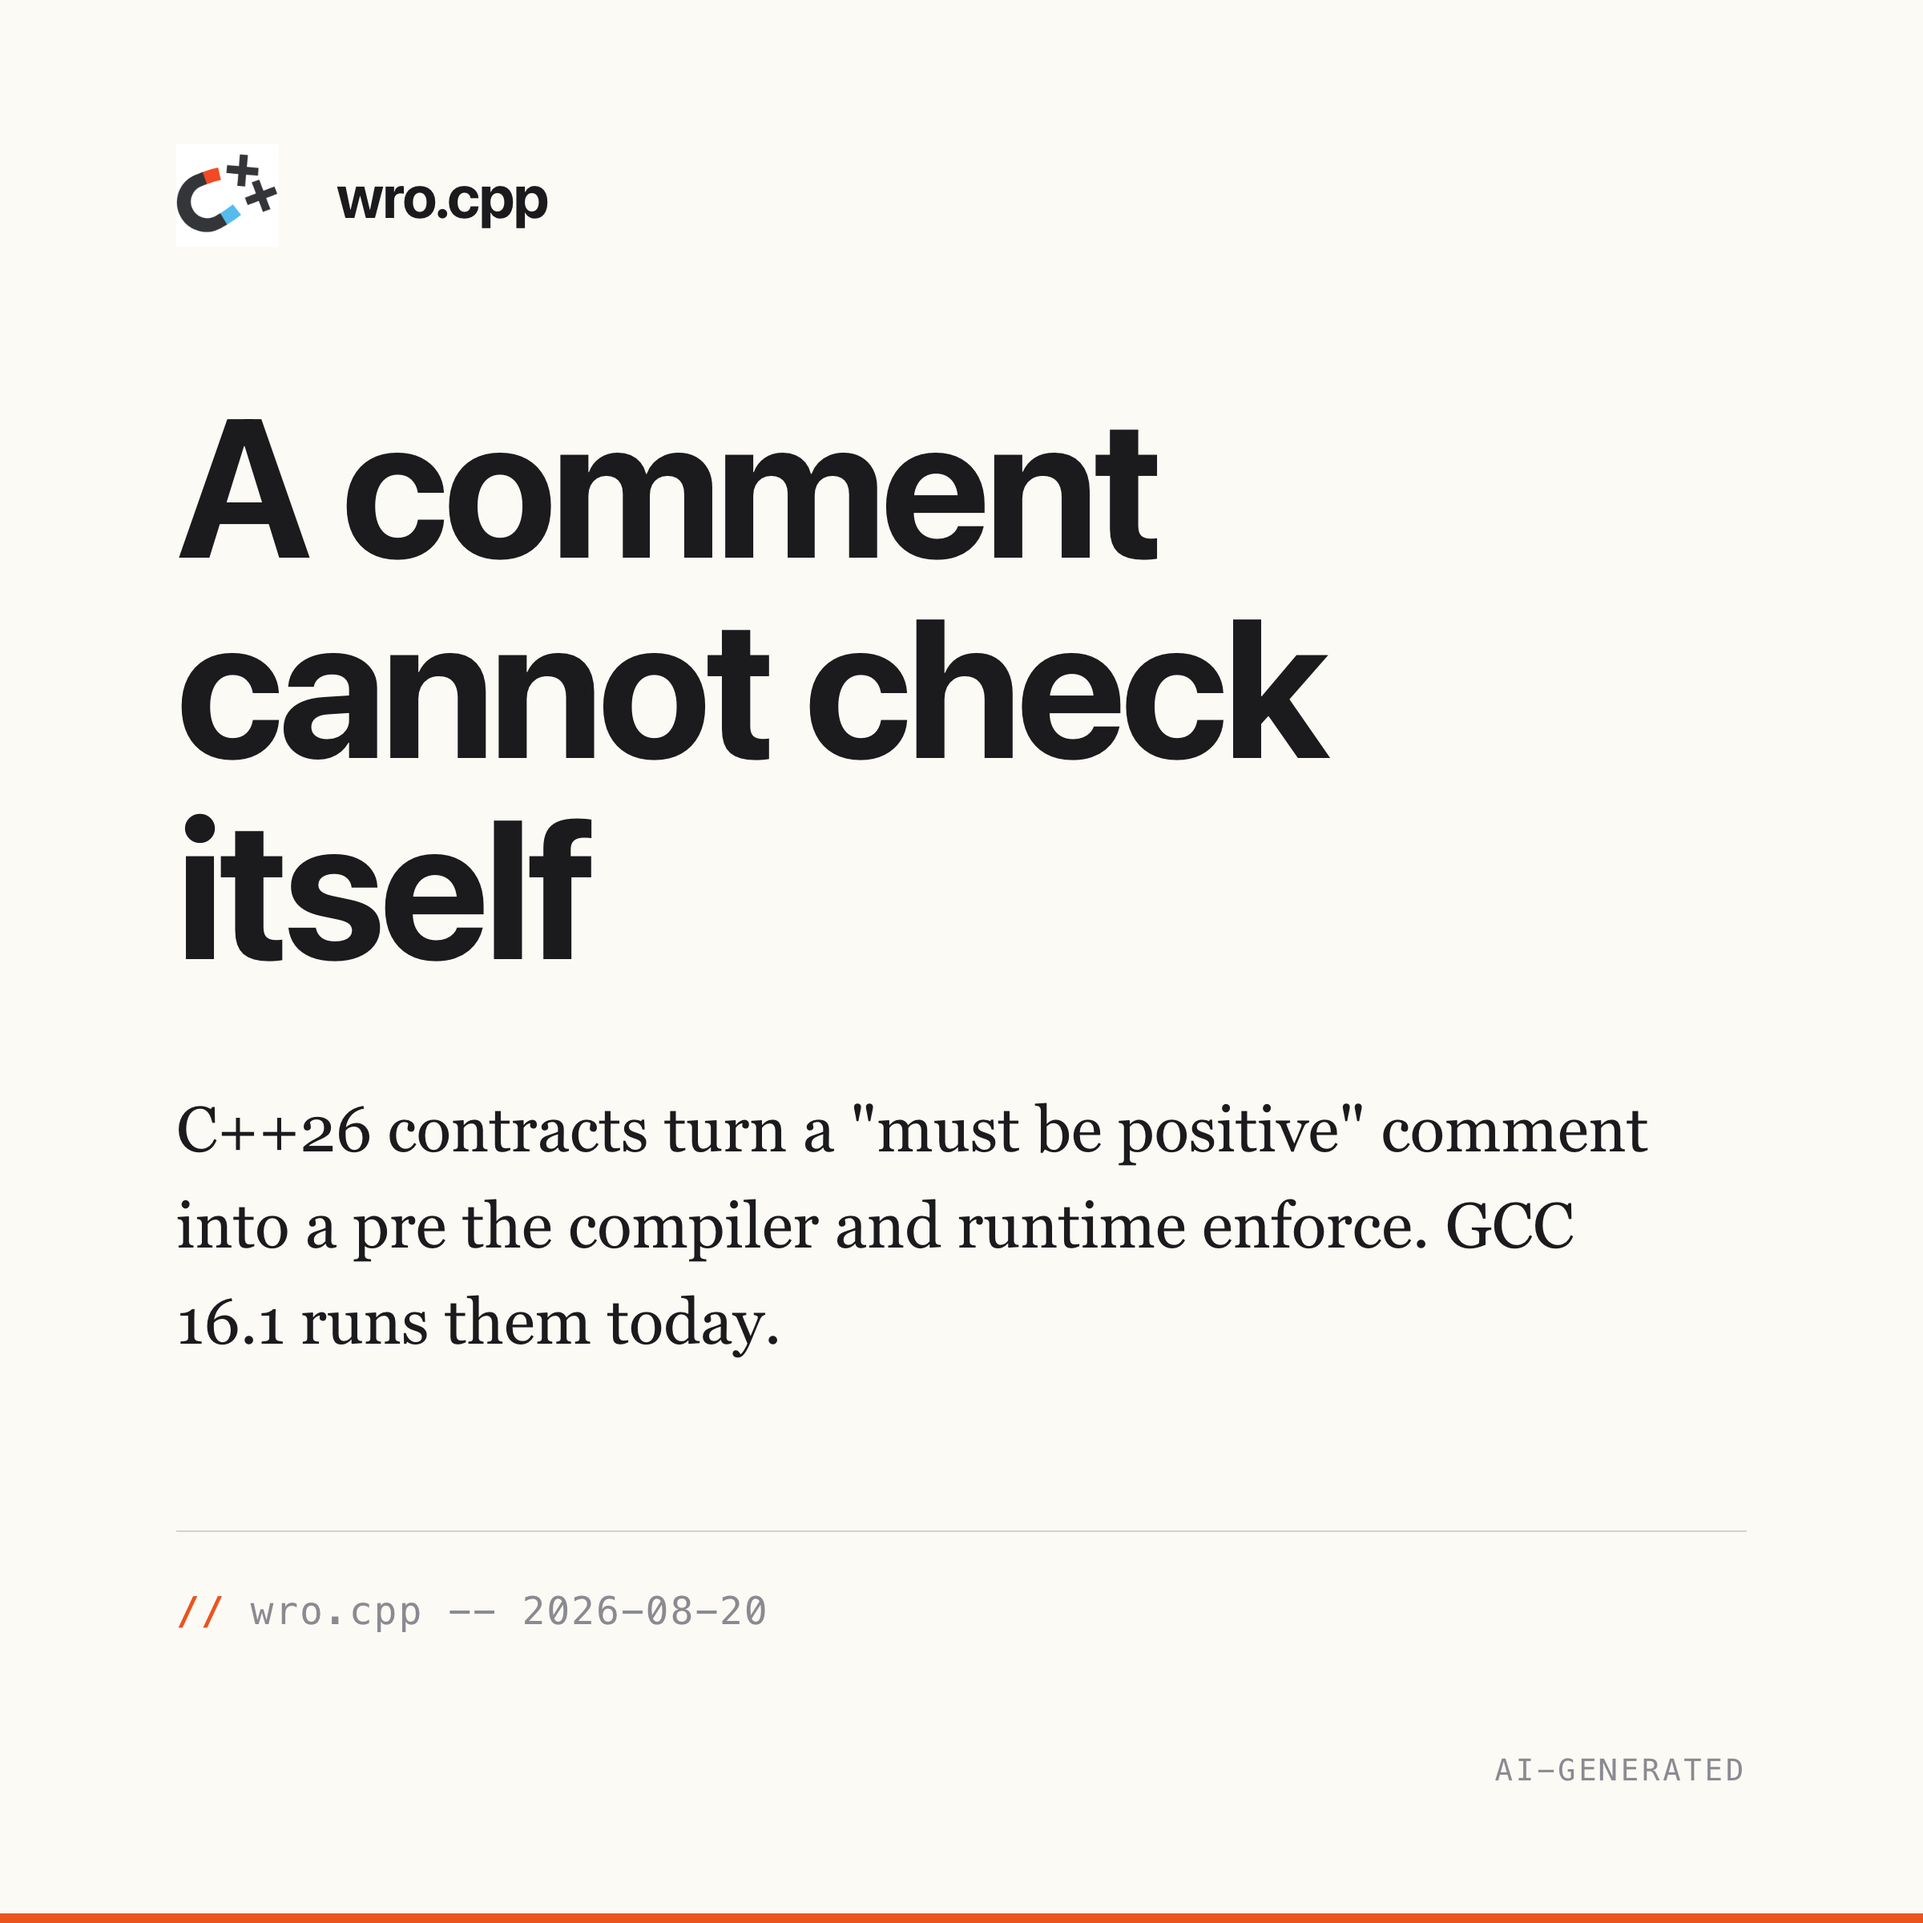
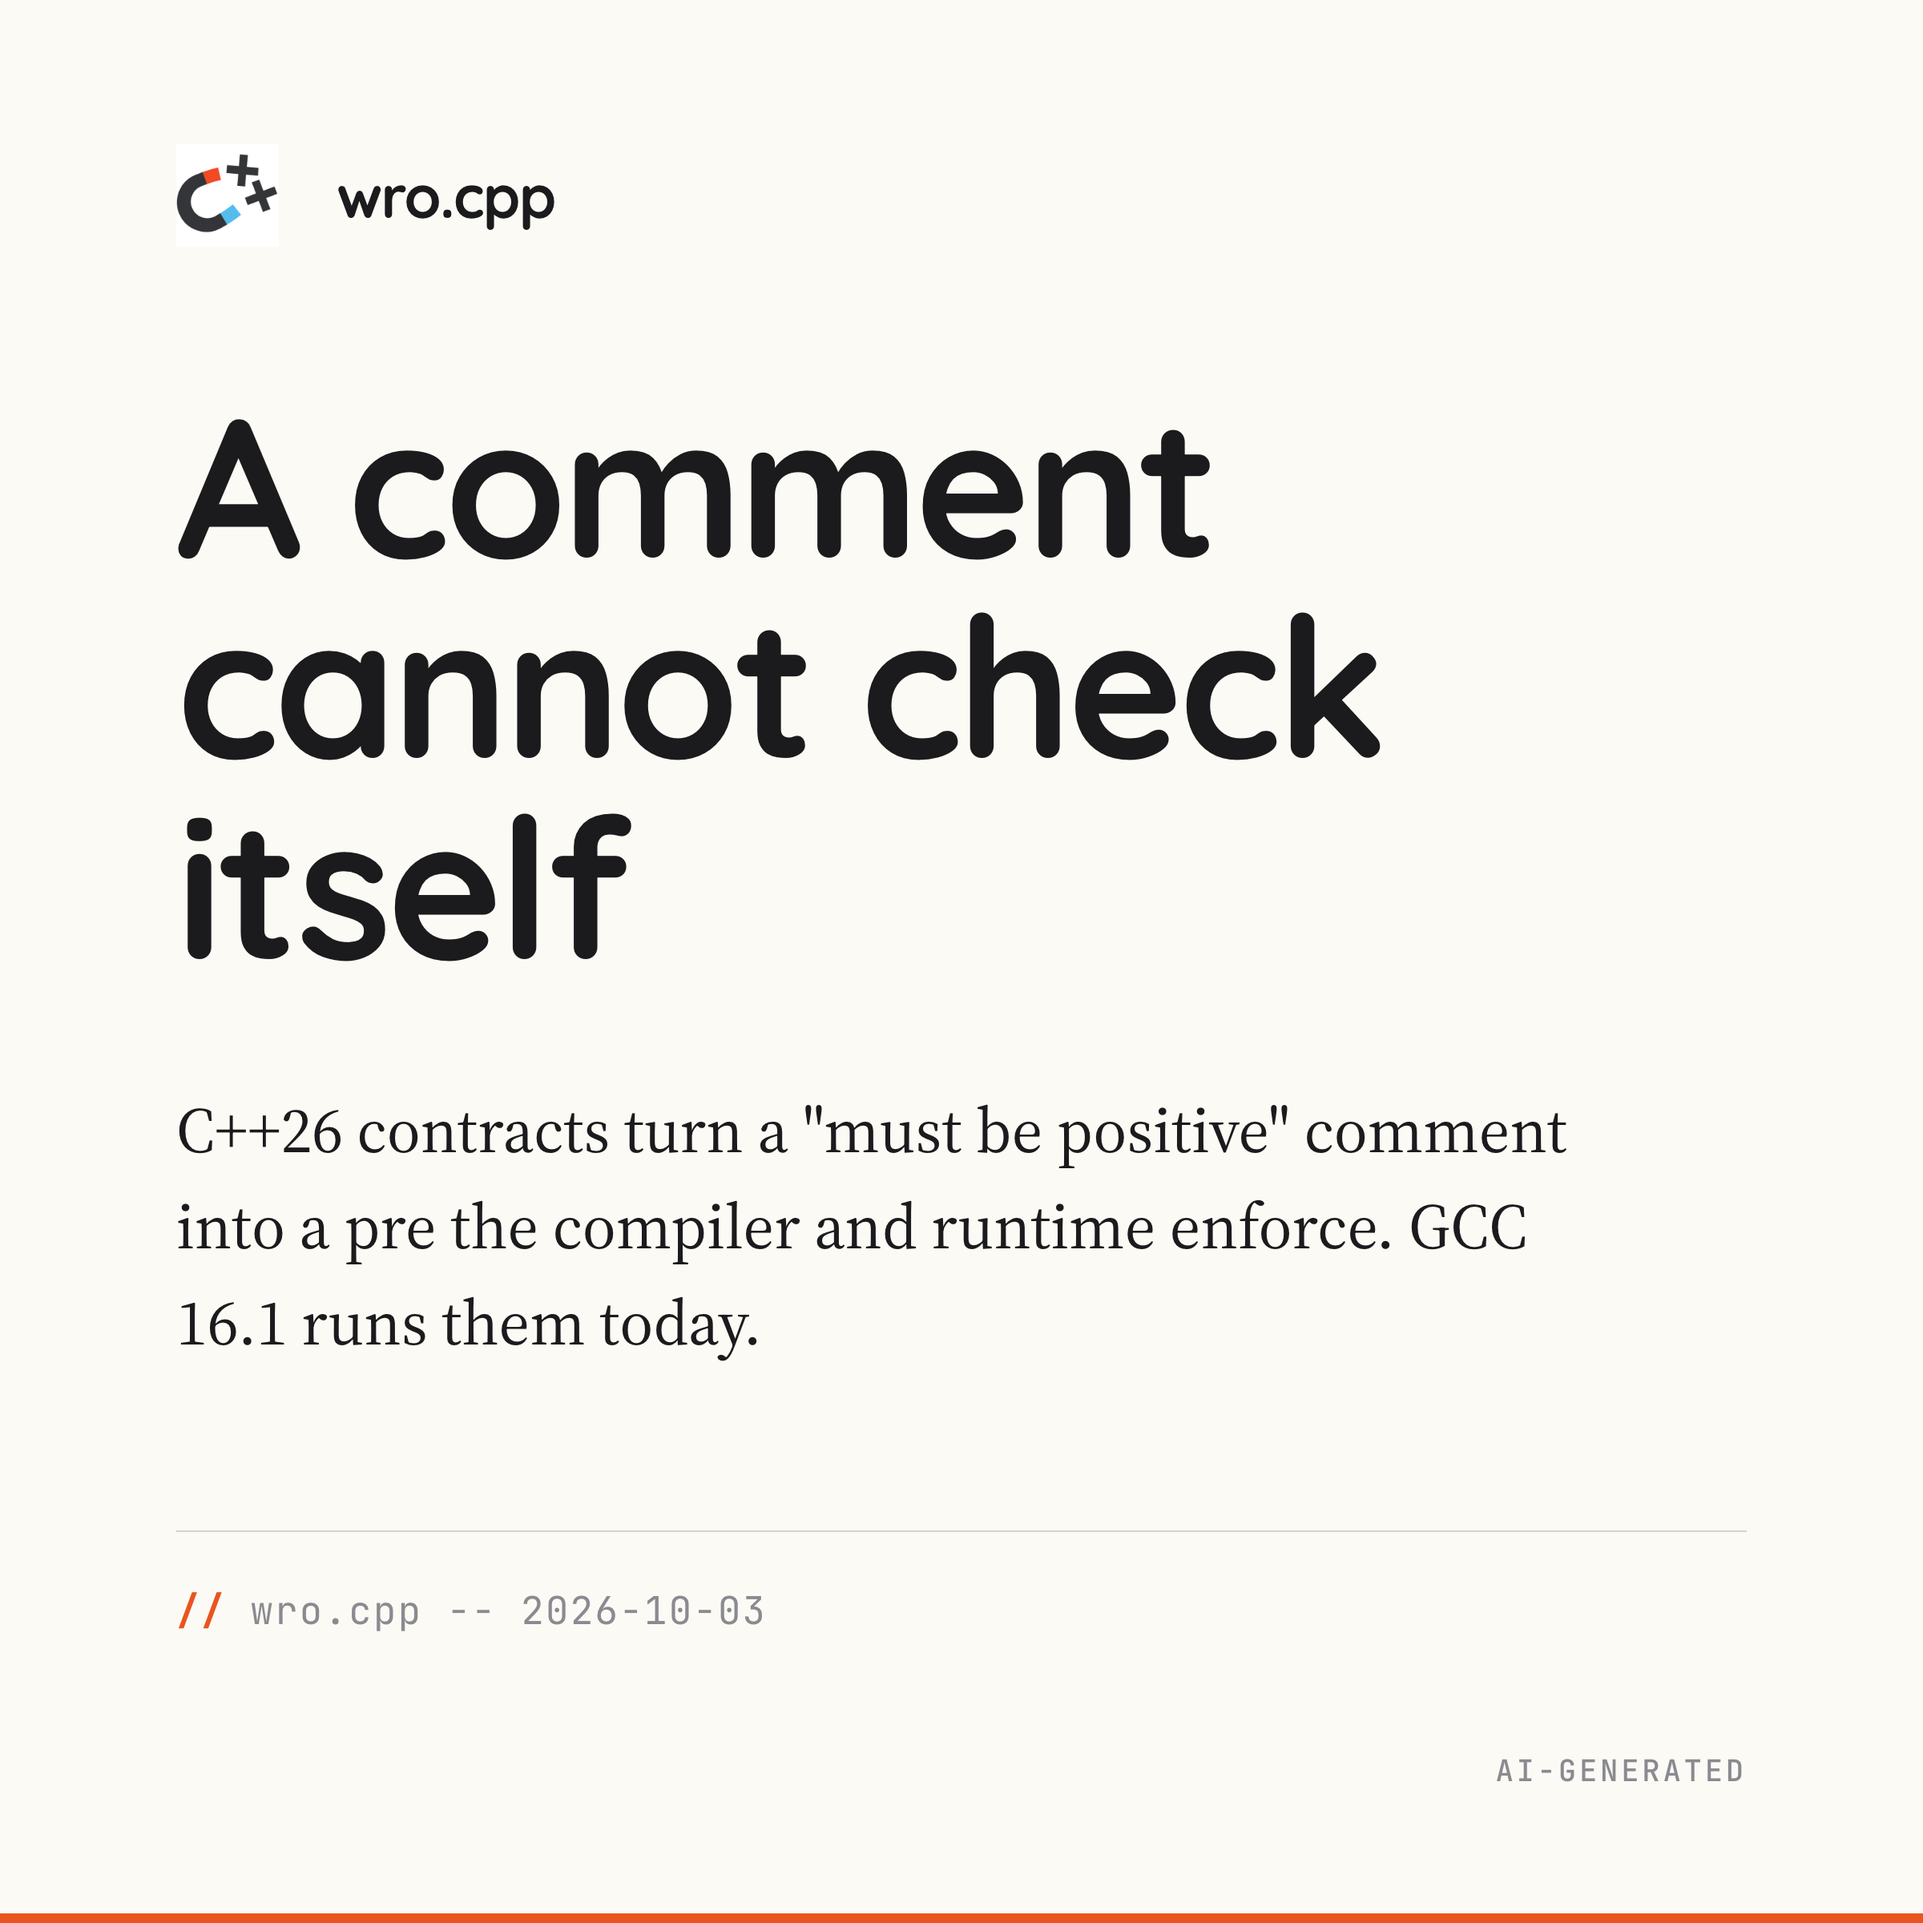
fix(schedule): move cpp26-contracts from 2026-08-20 to 2026-10-03
The contracts post was placed on 2026-08-20, a slot already held by
wg21-2026-07-mailing, which would have published two posts on one day
and left one without a social slot. Moves it to the first free date at
the tail of the daily queue and re-renders both cards so the visible
citation date matches.

Card re-render also restores the magnet logo and the AI-disclosure
badge, which an earlier render dropped.

diff --git a/social/facebook/cpp26-contracts/index.html b/social/facebook/cpp26-contracts/index.html
@@ -23,6 +23,6 @@
   </defs>
 </svg>
 
-<section class="card card-insight dark"><div class="grid-bg"></div><div class="glow"></div><div class="insight-content"><h1>A comment cannot check itself</h1><p>C++26 contracts turn a "must be positive" comment into a pre the compiler and runtime enforce. GCC 16.1 runs them today.</p><div class="insight-citation">wro.cpp -- 2026-08-20</div></div><div class="logo-watermark top-left"><svg viewBox="0 0 512 512" aria-hidden="true"><use href="#scudo-logo"/></svg><span class="logo-wordmark">ScudoAI</span></div><div class="ai-badge">AI-generated</div></section>
+<section class="card card-insight dark"><div class="grid-bg"></div><div class="glow"></div><div class="insight-content"><h1>A comment cannot check itself</h1><p>C++26 contracts turn a "must be positive" comment into a pre the compiler and runtime enforce. GCC 16.1 runs them today.</p><div class="insight-citation">wro.cpp -- 2026-10-03</div></div><div class="logo-watermark top-left"><svg viewBox="0 0 512 512" aria-hidden="true"><use href="#scudo-logo"/></svg><span class="logo-wordmark">ScudoAI</span></div><div class="ai-badge">AI-generated</div></section>
 </body>
 </html>

diff --git a/social/linkedin/cpp26-contracts/index.html b/social/linkedin/cpp26-contracts/index.html
@@ -23,6 +23,6 @@
   </defs>
 </svg>
 
-<section class="card card-insight dark"><div class="grid-bg"></div><div class="glow"></div><div class="insight-content"><h1>A comment cannot check itself</h1><p>C++26 contracts turn a "must be positive" comment into a pre the compiler and runtime enforce. GCC 16.1 runs them today.</p><div class="insight-citation">wro.cpp -- 2026-08-20</div></div><div class="logo-watermark top-left"><svg viewBox="0 0 512 512" aria-hidden="true"><use href="#scudo-logo"/></svg><span class="logo-wordmark">ScudoAI</span></div><div class="ai-badge">AI-generated</div></section>
+<section class="card card-insight dark"><div class="grid-bg"></div><div class="glow"></div><div class="insight-content"><h1>A comment cannot check itself</h1><p>C++26 contracts turn a "must be positive" comment into a pre the compiler and runtime enforce. GCC 16.1 runs them today.</p><div class="insight-citation">wro.cpp -- 2026-10-03</div></div><div class="logo-watermark top-left"><svg viewBox="0 0 512 512" aria-hidden="true"><use href="#scudo-logo"/></svg><span class="logo-wordmark">ScudoAI</span></div><div class="ai-badge">AI-generated</div></section>
 </body>
 </html>

diff --git a/social/facebook/cpp26-contracts/content.md b/social/facebook/cpp26-contracts/content.md
@@ -4,7 +4,7 @@ template: social/linkedin-post
 
 ::::post{type=insight theme=dark logo=top-left}
 
-:::insight{citation="wro.cpp -- 2026-08-20"}
+:::insight{citation="wro.cpp -- 2026-10-03"}
 # A comment cannot check itself
 C++26 contracts turn a "must be positive" comment into a pre the compiler and runtime enforce. GCC 16.1 runs them today.
 :::

diff --git a/social/linkedin/cpp26-contracts/content.md b/social/linkedin/cpp26-contracts/content.md
@@ -4,7 +4,7 @@ template: social/linkedin-post
 
 ::::post{type=insight theme=dark logo=top-left}
 
-:::insight{citation="wro.cpp -- 2026-08-20"}
+:::insight{citation="wro.cpp -- 2026-10-03"}
 # A comment cannot check itself
 C++26 contracts turn a "must be positive" comment into a pre the compiler and runtime enforce. GCC 16.1 runs them today.
 :::
